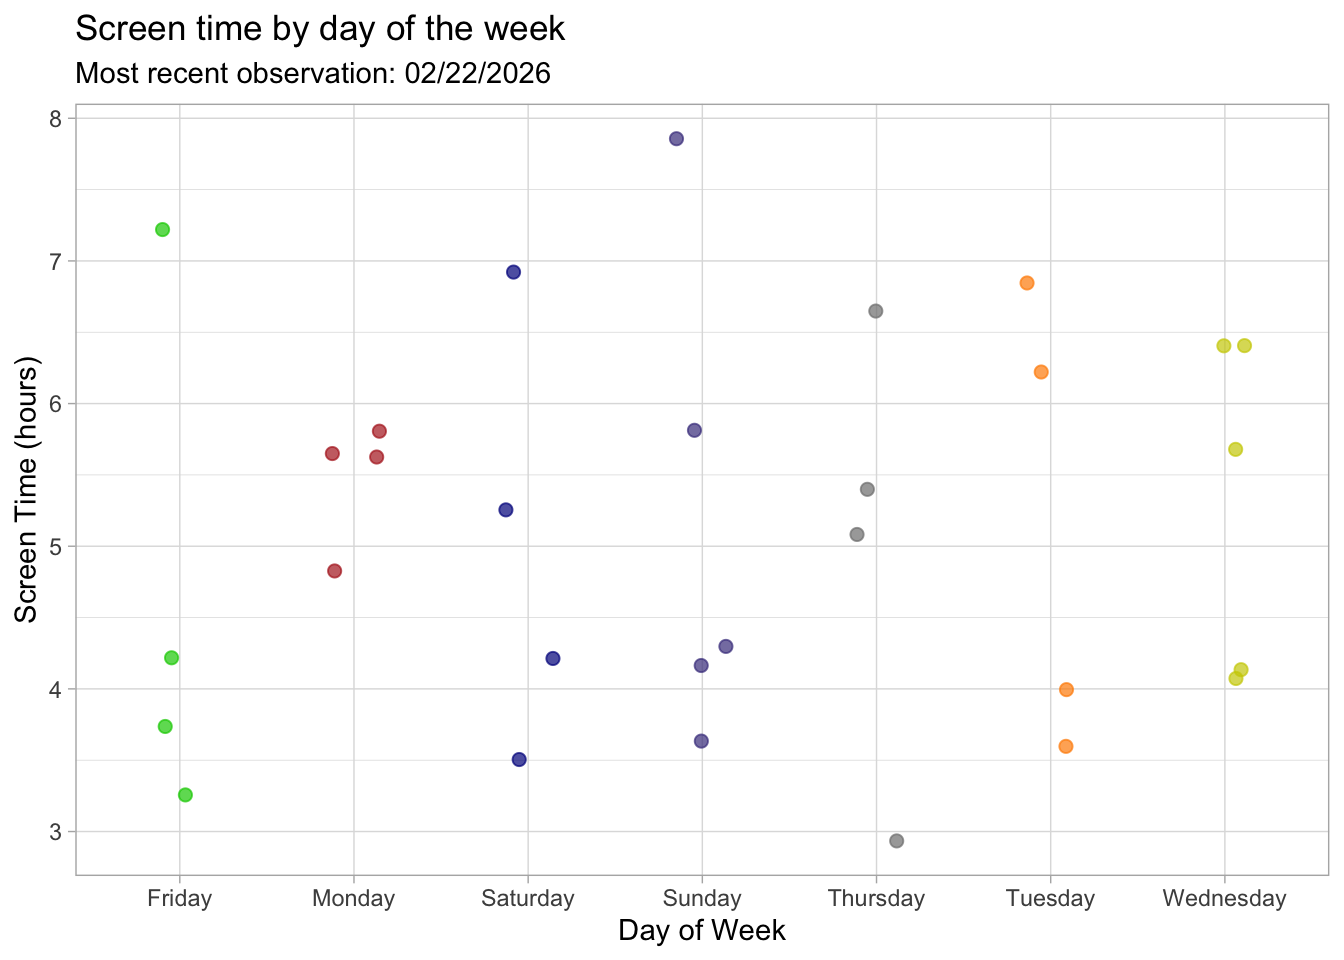
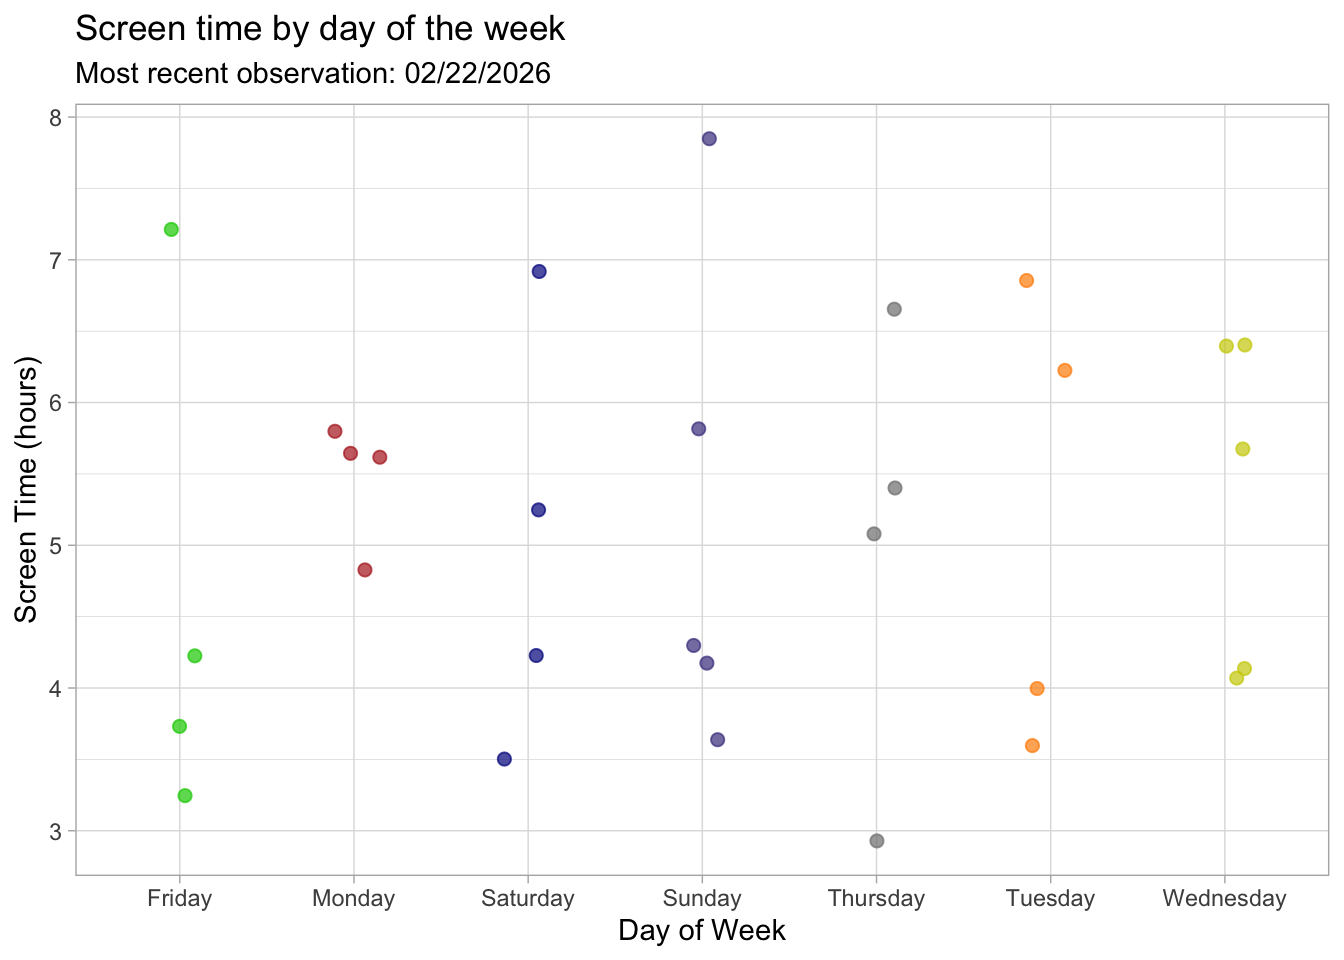
Made final edit to document, suggesting ways to improve paper figure.

diff --git a/code/homework-03.html b/code/homework-03.html
@@ -147,6 +147,9 @@ window.Quarto = {
   <li><a href="#problem-4-statistical-critique" id="toc-problem-4-statistical-critique" class="nav-link" data-scroll-target="#problem-4-statistical-critique">Problem 4: Statistical critique</a>
   <ul class="collapse">
   <li><a href="#a.-revisit-and-summarize" id="toc-a.-revisit-and-summarize" class="nav-link" data-scroll-target="#a.-revisit-and-summarize">a. Revisit and summarize</a></li>
+  <li><a href="#b.-visual-clarity" id="toc-b.-visual-clarity" class="nav-link" data-scroll-target="#b.-visual-clarity">b. Visual clarity</a></li>
+  <li><a href="#c.-aesthetic-clarity" id="toc-c.-aesthetic-clarity" class="nav-link" data-scroll-target="#c.-aesthetic-clarity">c.&nbsp;Aesthetic clarity</a></li>
+  <li><a href="#d.-recommendations" id="toc-d.-recommendations" class="nav-link" data-scroll-target="#d.-recommendations">d.&nbsp;Recommendations</a></li>
   </ul></li>
   </ul>
 </nav>
@@ -492,6 +495,18 @@ sample estimates:
 <h2 class="anchored" data-anchor-id="a.-revisit-and-summarize">a. Revisit and summarize</h2>
 <p>The statistical test that the authors used is ANOVA. One response variable they tested was non-native species richness or percent cover of non-native species, and the predictor variable was a categorical group, such as vegetation formation (type of plant community) or whether the area was burnt vs.&nbsp;unburnt. ANOVA helps the authors answer their main question by testing whether the average amount of invasion by non-native plants is different across groups, such as burnt vs.&nbsp;unburnt areas or different vegetation formations. If the ANOVA result were significant, they would interpret it as evidence that the groups being compared have meaningfully different mean invasion levels, meaning fire status or vegetation type are associated with more (or less) non-native plant presence.</p>
 <p><img src="screenshot.png" class="img-fluid"></p>
+</section>
+<section id="b.-visual-clarity" class="level2">
+<h2 class="anchored" data-anchor-id="b.-visual-clarity">b. Visual clarity</h2>
+<p>The figure displays vegetation formations on the x-axis and percent cover of non-native species on the y-axis, which is a sensible orientation because it compares invasion levels across categorical habitat types. The use of side-by-side bars allows clear comparison between the two datasets (NRI shown as solid black bars and TNC shown as hatched bars), and the error bars provide information about variability around the means. However, because the figure only shows summary statistics (bar heights and error bars) and does not display individual data points, it is difficult to assess the spread or overlap of observations within each vegetation type.Overall, the visualization effectively communicates the main statistical comparison, but additional detail would improve transparency.</p>
+</section>
+<section id="c.-aesthetic-clarity" class="level2">
+<h2 class="anchored" data-anchor-id="c.-aesthetic-clarity">c.&nbsp;Aesthetic clarity</h2>
+<p>The figure handles visual clutter pretty well, since it uses simple bars, limited color (solid black and hatched fill), and minimal background elements. The absence of grid lines and excessive labeling keeps the focus on the bar heights and error bars, which represent the main data. One point of contention is that the large difference in scale for the Grass/Meadow category visually dominates the figure, which may distract from more subtle differences among the forest types (however that’s just a reflection of the data, and not a stylistic choice the authors made).</p>
+</section>
+<section id="d.-recommendations" class="level2">
+<h2 class="anchored" data-anchor-id="d.-recommendations">d.&nbsp;Recommendations</h2>
+<p>One recommendation would be to include individual data points overlaid on the bars (like jittered points) so readers can see the distribution within each vegetation formation, rather than only the group means. I would also clarify what the error bars represent (e.g., standard error or confidence intervals) directly in the figure caption to improve transparency. These changes could improve clarity while maintaining the overall structure of the figure.</p>
 </section>
 </section>
 
